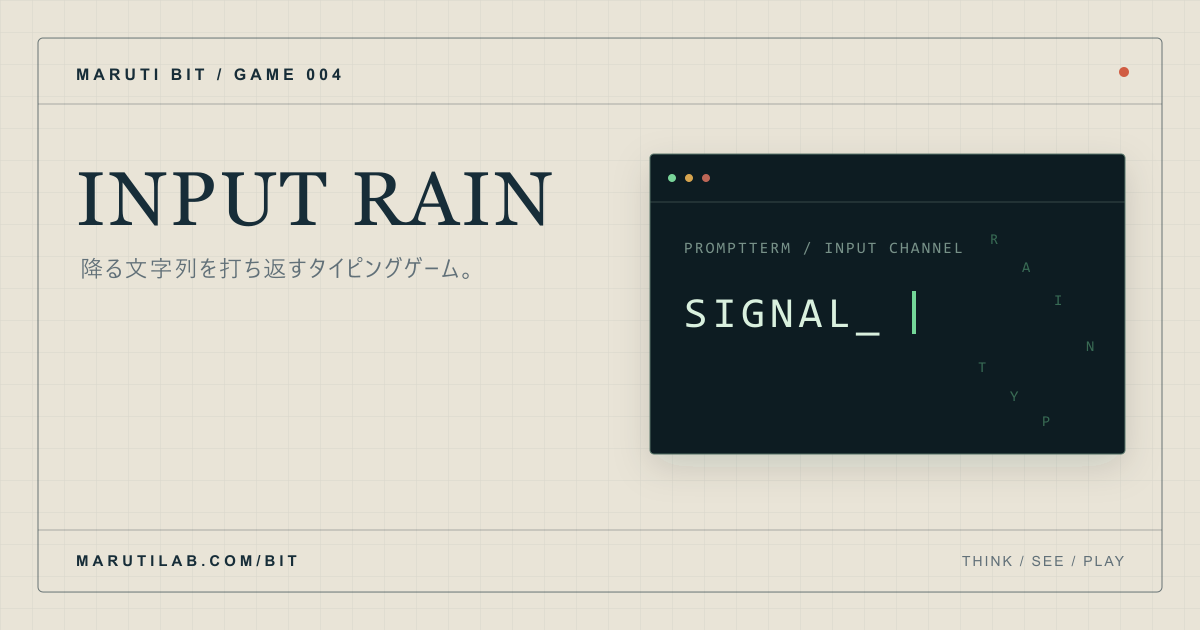
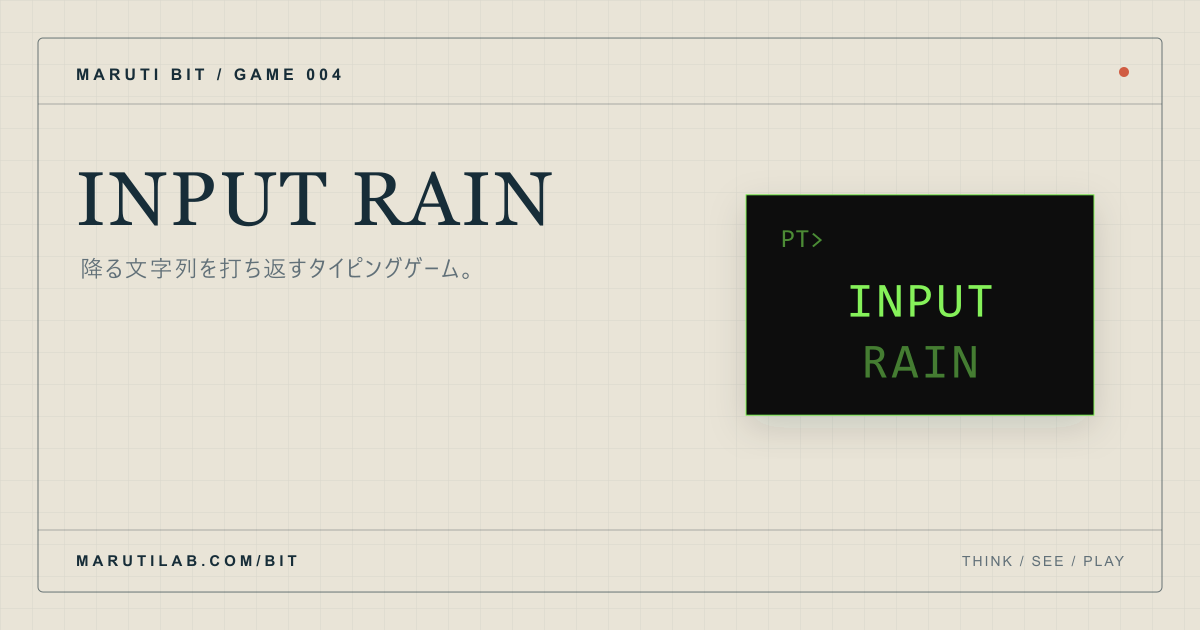
Rebuild ANGLE/BLANK/SEQUENCE/INPUT RAIN/PAKU's OGP from their real thumbnails
Same treatment just given to LILT ORB: each landscape OGP now reuses
the exact path/text data from its actual /bit hub card icon (GameVisual
in app/bit/BitHub.tsx), scaled up, instead of a separate illustration
invented per game. Added a 630x630 square variant for each and wired
it in as a second openGraph.images entry, for unfurlers (Slack/Discord/
LINE) that prefer or fall back to 1:1 images.

squareShell() now takes a theme ("light"/"dark") so each square matches
its game's real card background instead of a hardcoded dark canvas.

Changed region(s): [[0.5242, 0.2413, 0.9558, 0.7238], [0.74, 0.3619, 0.8017, 0.4222]]

diff --git a/app/bit/sequence/page.tsx b/app/bit/sequence/page.tsx
@@ -8,7 +8,13 @@ export const metadata: Metadata = {
   title: "MarutiBit — SEQUENCE（順番推理ゲーム）",
   description: "数の並びに隠れた規則を見抜く順番推理ゲーム。全5問の数列パズル、初級・中級・上級の3段階。",
   alternates: { canonical: "/bit/sequence" },
-  openGraph: { title: "MarutiBit — SEQUENCE（順番推理ゲーム）", description: "数の並びに隠れた規則を見抜く順番推理ゲーム。全5問の数列パズル。", url: "/bit/sequence", images: [{ url: "/og/bit/sequence.png", width: 1200, height: 630, alt: "MarutiBit SEQUENCE" }] },
+  openGraph: {
+    title: "MarutiBit — SEQUENCE（順番推理ゲーム）", description: "数の並びに隠れた規則を見抜く順番推理ゲーム。全5問の数列パズル。", url: "/bit/sequence",
+    images: [
+      { url: "/og/bit/sequence.png", width: 1200, height: 630, alt: "MarutiBit SEQUENCE" },
+      { url: "/og/bit/sequence-square.png", width: 630, height: 630, alt: "MarutiBit SEQUENCE" },
+    ],
+  },
   twitter: { card: "summary_large_image", title: "MarutiBit — SEQUENCE（順番推理ゲーム）", description: "数の並びに隠れた規則を見抜く順番推理ゲーム。全5問の数列パズル。", images: ["/og/bit/sequence.png"] },
 };
 

diff --git a/app/bit/input-rain/page.tsx b/app/bit/input-rain/page.tsx
@@ -12,7 +12,10 @@ export const metadata: Metadata = {
     title: "MarutiBit — INPUT RAIN（タイピング／フリック入力ゲーム）",
     description: "落下する端末入力を処理する、PromptTermのタイピング／フリック入力ゲーム。",
     url: "/bit/input-rain",
-    images: [{ url: "/og/bit/input-rain.png", width: 1200, height: 630, alt: "MarutiBit INPUT RAIN" }],
+    images: [
+      { url: "/og/bit/input-rain.png", width: 1200, height: 630, alt: "MarutiBit INPUT RAIN" },
+      { url: "/og/bit/input-rain-square.png", width: 630, height: 630, alt: "MarutiBit INPUT RAIN" },
+    ],
   },
   twitter: {
     card: "summary_large_image",

diff --git a/app/bit/angle/page.tsx b/app/bit/angle/page.tsx
@@ -11,7 +11,13 @@ export const metadata: Metadata = {
   title,
   description,
   alternates: { canonical: "/bit/angle" },
-  openGraph: { title, description, url: "/bit/angle", images: [{ url: "/og/bit/angle.png", width: 1200, height: 630, alt: "MarutiBit ANGLE" }] },
+  openGraph: {
+    title, description, url: "/bit/angle",
+    images: [
+      { url: "/og/bit/angle.png", width: 1200, height: 630, alt: "MarutiBit ANGLE" },
+      { url: "/og/bit/angle-square.png", width: 630, height: 630, alt: "MarutiBit ANGLE" },
+    ],
+  },
   twitter: { card: "summary_large_image", title, description, images: ["/og/bit/angle.png"] },
 };
 

diff --git a/app/bit/blank/page.tsx b/app/bit/blank/page.tsx
@@ -12,7 +12,10 @@ export const metadata: Metadata = {
     title: "MarutiBit — BLANK（空欄補完ゲーム）",
     description: "四則演算の空欄を逆算して埋める空欄補完ゲーム。全5問の計算パズル。",
     url: "/bit/blank",
-    images: [{ url: "/og/bit/blank.png", width: 1200, height: 630, alt: "MarutiBit BLANK" }],
+    images: [
+      { url: "/og/bit/blank.png", width: 1200, height: 630, alt: "MarutiBit BLANK" },
+      { url: "/og/bit/blank-square.png", width: 630, height: 630, alt: "MarutiBit BLANK" },
+    ],
   },
   twitter: {
     card: "summary_large_image",

diff --git a/app/bit/paku/page.tsx b/app/bit/paku/page.tsx
@@ -12,7 +12,10 @@ export const metadata: Metadata = {
     title: "MarutiBit — PAKU（エサやりゲーム）",
     description: "水槽の熱帯魚にタップで餌をあげるエサやりゲーム。",
     url: "/bit/paku",
-    images: [{ url: "/og/bit/paku.png", width: 1200, height: 630, alt: "MarutiBit PAKU" }],
+    images: [
+      { url: "/og/bit/paku.png", width: 1200, height: 630, alt: "MarutiBit PAKU" },
+      { url: "/og/bit/paku-square.png", width: 630, height: 630, alt: "MarutiBit PAKU" },
+    ],
   },
   twitter: {
     card: "summary_large_image",
